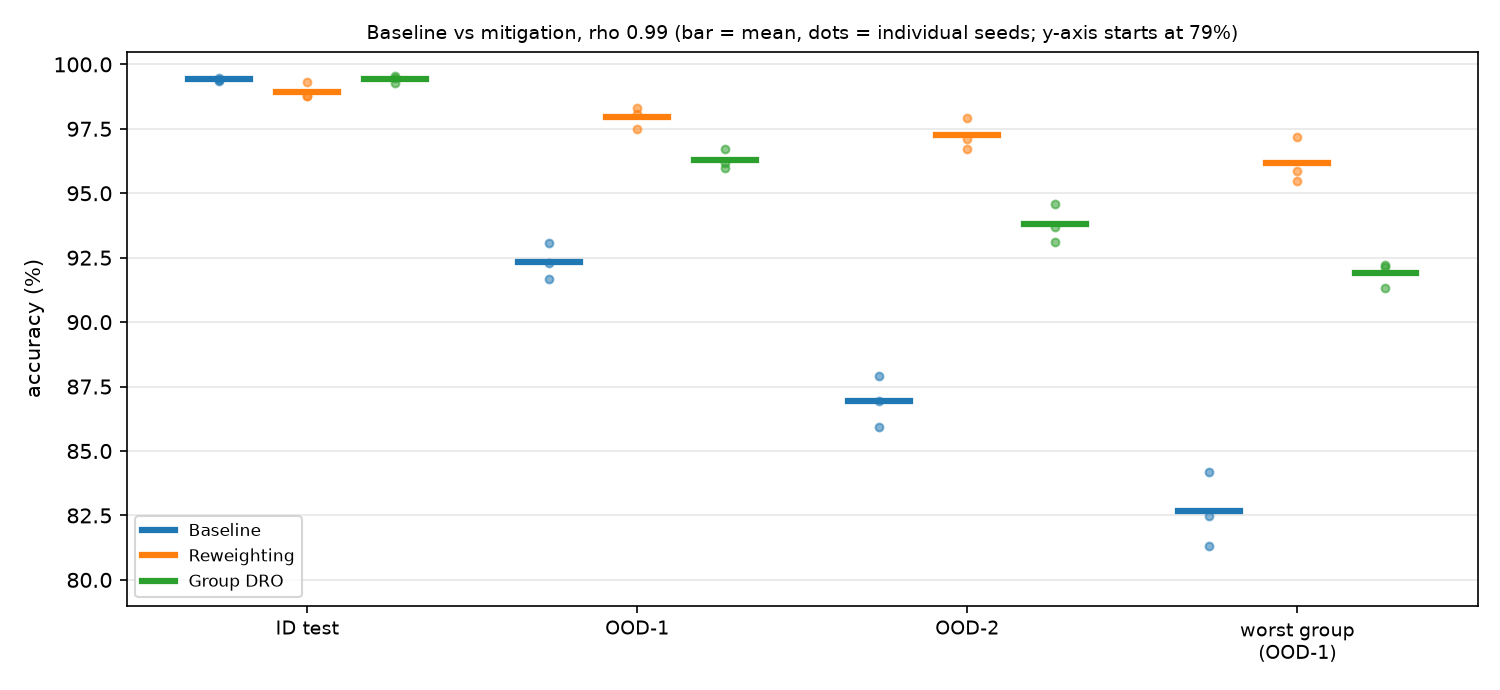
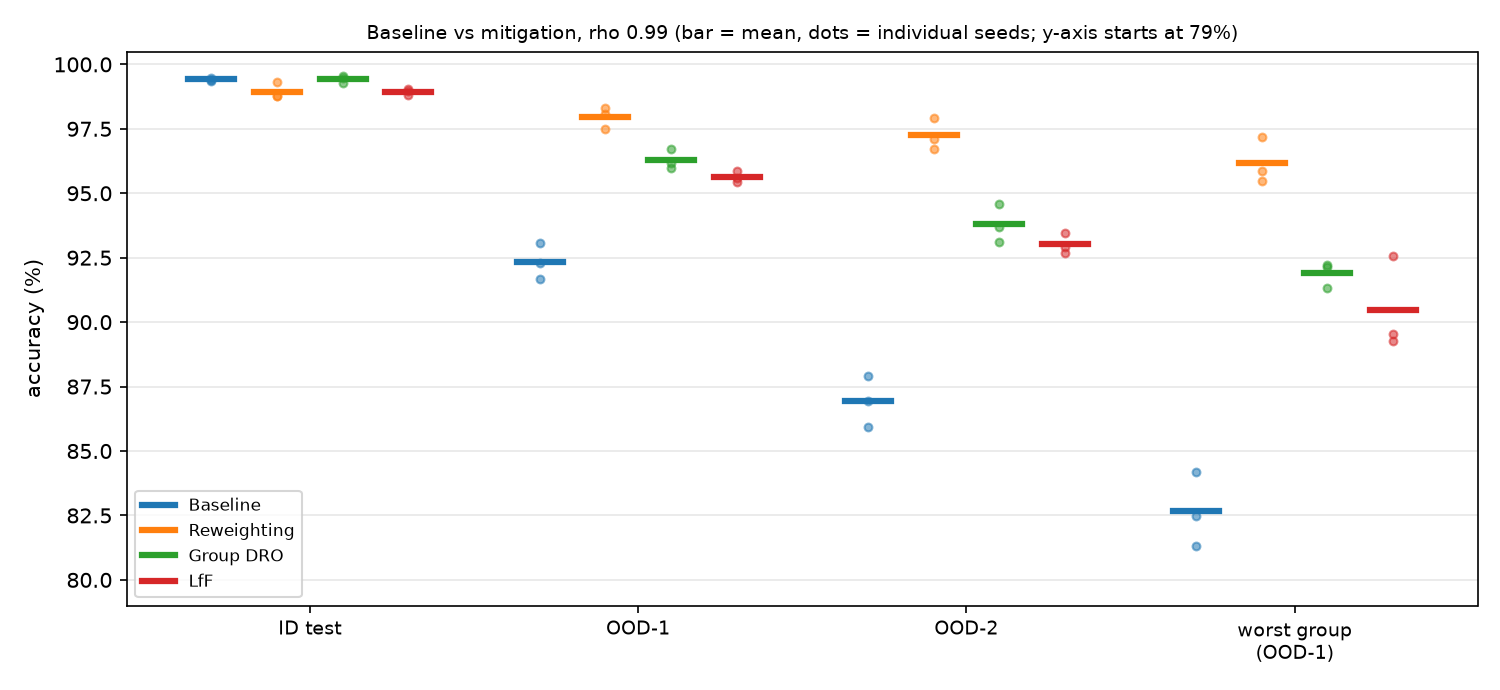
Generating figures and tables after adding the LfF method

diff --git a/reports/tables/table3_rho0.99.md b/reports/tables/table3_rho0.99.md
@@ -5,6 +5,7 @@
 | Baseline | 3 | 99.42 ± 0.05 | 92.35 ± 0.70 | 86.93 ± 0.98 | 7.07 ± 0.72 | 12.48 ± 1.00 | 82.66 ± 1.44 |
 | Reweighting | 3 | 98.95 ± 0.31 | 97.96 ± 0.42 | 97.26 ± 0.61 | 0.99 ± 0.46 | 1.69 ± 0.73 | 96.16 ± 0.89 |
 | Group DRO | 3 | 99.44 ± 0.13 | 96.29 ± 0.39 | 93.80 ± 0.75 | 3.15 ± 0.35 | 5.64 ± 0.67 | 91.89 ± 0.49 |
+| LfF | 3 | 98.94 ± 0.13 | 95.63 ± 0.22 | 93.02 ± 0.38 | 3.31 ± 0.35 | 5.92 ± 0.52 | 90.46 ± 1.83 |
 
 ## Individual runs (accuracy %)
 
@@ -19,8 +20,12 @@
 | Group DRO | 0 | 99.29 | 95.97 | 93.11 | 92.21 |
 | Group DRO | 1 | 99.55 | 96.17 | 93.70 | 91.32 |
 | Group DRO | 2 | 99.48 | 96.73 | 94.59 | 92.13 |
+| LfF | 0 | 99.06 | 95.45 | 92.69 | 89.54 |
+| LfF | 1 | 98.97 | 95.58 | 92.93 | 89.27 |
+| LfF | 2 | 98.80 | 95.87 | 93.44 | 92.56 |
 
 ## Change vs baseline with the same seed (points)
 
 - **Reweighting**: ID -0.47 (per seed: -0.69, -0.11, -0.61); OOD-1 +5.61 (per seed: +6.02, +6.38, +4.43); OOD-2 +10.33 (per seed: +10.99, +11.17, +8.82)
 - **Group DRO**: ID +0.02 (per seed: -0.18, +0.14, +0.11); OOD-1 +3.94 (per seed: +3.67, +4.49, +3.66); OOD-2 +6.87 (per seed: +6.17, +7.75, +6.68)
+- **LfF**: ID -0.47 (per seed: -0.41, -0.44, -0.57); OOD-1 +3.28 (per seed: +3.15, +3.90, +2.80); OOD-2 +6.09 (per seed: +5.75, +6.98, +5.53)
